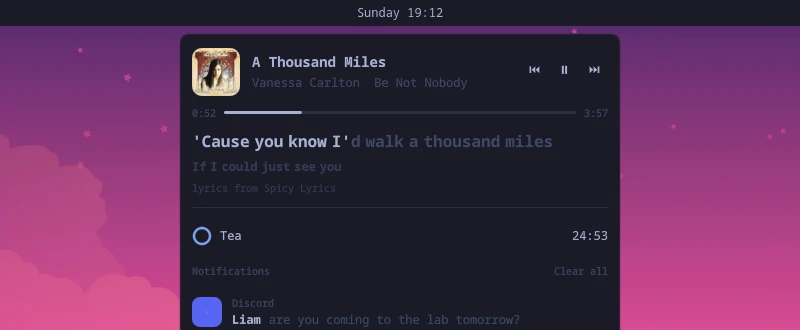
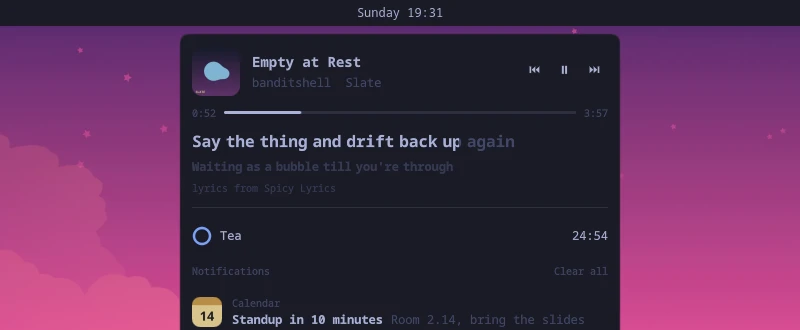
docs: previews with our own song, cover and notification
The screenshots and the clip now show a made-up song with lyrics written
for it, a drawn cover and a calendar notification, so every preview asset
is ours to publish. A bud that is leaving no longer shows a count of 0.

diff --git a/Island.qml b/Island.qml
@@ -814,7 +814,7 @@ Item {
                         Text {
                             anchors.centerIn: parent
                             visible: budInk.kind === "queue"
-                            text: String(root.queue.length)
+                            text: root.queue.length > 0 ? String(root.queue.length) : ""
                             color: theme.text
                             font.family: theme.font
                             font.pixelSize: theme.small

diff --git a/README.md b/README.md
@@ -14,7 +14,7 @@ Nothing sits on screen at rest. When a notification arrives, the track changes o
 - **Timers.** `omarchy-shell banditshell-island timer 10m tea` starts one. A running timer sits in a small pill, and a finished one chimes and stays until you press it.
 - **Sing along.** `omarchy-shell banditshell-island sing` keeps the current line on screen while music plays.
 
-<img src="docs/open.webp" alt="The open island: album art, title, a progress line, the current lyric with its first words lit, a timer and a notification" width="49%"> <img src="docs/buds.webp" alt="A now playing glance with a music bud and a timer bud beside it" width="49%">
+<img src="docs/open.webp" alt="The open island: album art, title, a progress line, the current lyric with its first words lit, a timer and a notification" width="49%"> <img src="docs/buds.webp" alt="A now playing glance with a running timer waiting beside it as a bud" width="49%">
 
 ## Install
 
